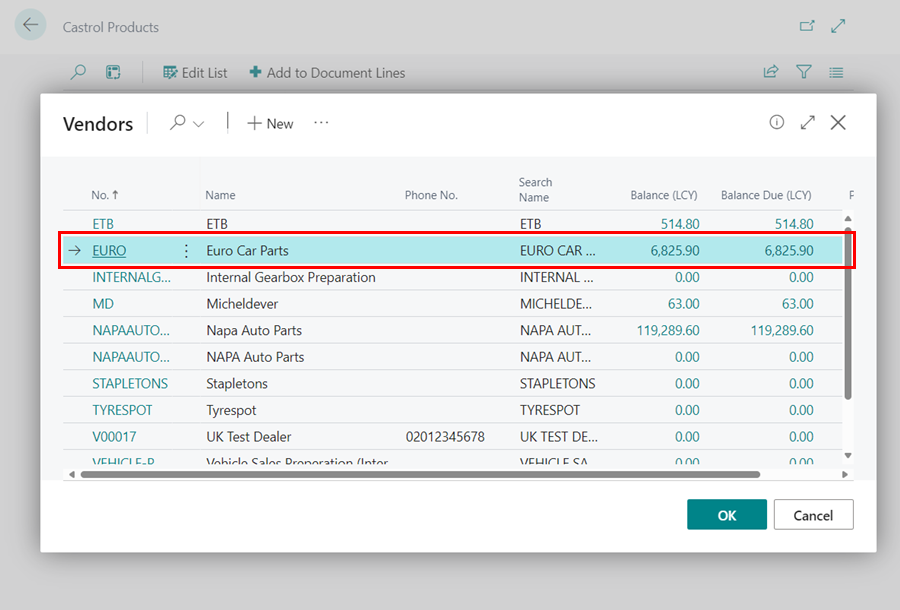
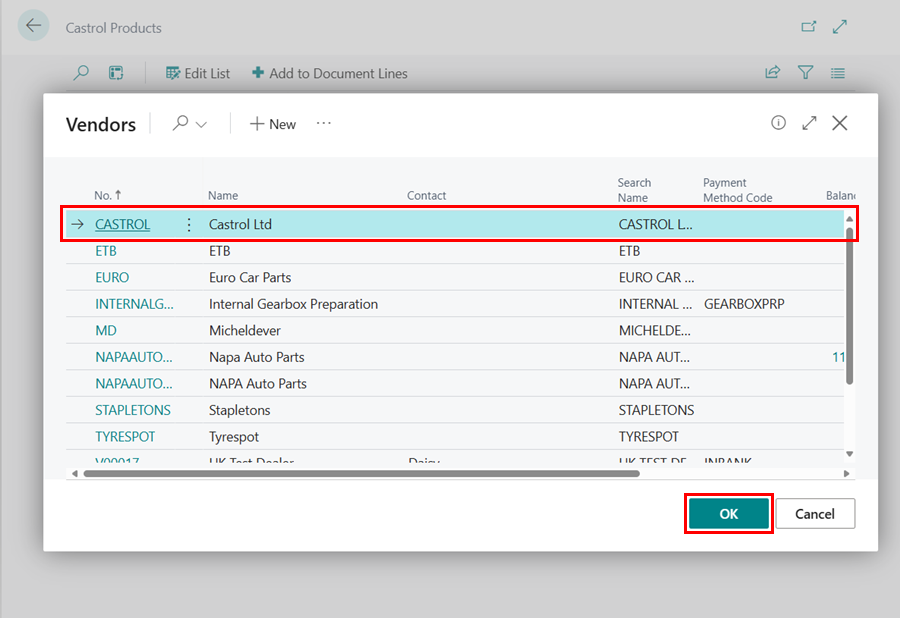
castrol lookup

diff --git a/docs/garagehive-castrol-lookup.md b/docs/garagehive-castrol-lookup.md
@@ -6,49 +6,57 @@ title: How to Use Castrol Lookup in Garage Hive
 <a name="top"></a>
 
 # How to Use Castrol Lookup in Garage Hive
-Garage Hive users can now use Castrol Lookup to easily search for appropriate oil types and their capacities for various vehicles and select the oil from Castrol database to add to the document. The lookup function can be done either by using the vehicle registration number or by specifying the make and model of the vehicle.
+Garage Hive users can use Castrol Lookup to easily search for appropriate oil types and their capacities for various vehicles and select the oil from Castrol database to add to the document. The lookup function can be done either by using the vehicle registration number or by specifying the make and model of the vehicle.
 
-1. Castrol Lookup is available for use in the Jobsheet, Estimate, VI Estimate, and the Technician Jobsheet.
-1. To use Castrol Lookup, open the relevant document and select **Lookup** from the menu, followed by **Castrol Lookup**. The system will automatically pull the vehicle registration number to start the lookup.
+1. To use Castrol Lookup, choose the ![](media/search_icon.png) icon in the top-right corner, enter **Castrol Lookup Setup** and choose the related link.
+
+   ![](media/garagehive-castrol-lookup-setup1.png)
+
+2. Specify the supplier to purchase the oil from by entering their number in the **Vendor No.** field.
+
+   ![](media/garagehive-castrol-lookup-setup2.png)
+
+3. Castrol Lookup is available for use in the Jobsheet, Estimate, VI Estimate, and the Technician Jobsheet.
+4. Open the relevant document and select **Lookup** from the menu, followed by **Castrol Lookup**. The system will automatically pull the vehicle registration number to start the lookup.
 
    ![](media/garagehive-castrol-lookup-use1.png)
 
-1. If the system can’t find the vehicle registration, you’ll receive an error message with an option to manually input the vehicle’s **Make** and **Model**. Select **Yes** to proceed.
+5. If the system can’t find the vehicle registration, you’ll receive an error message with an option to manually input the vehicle’s **Make** and **Model**. Select **Yes** to proceed.
 
    ![](media/garagehive-castrol-lookup-use3.png)
 
-1. Follow the prompts to choose the correct **Make** and **Model** and click **OK**.
+6. Follow the prompts to choose the correct **Make** and **Model** and click **OK**.
 
    ![](media/garagehive-castrol-lookup-use4.png)
 
-1. The **Castrol Lookup** page will appear, showing the different components that may require oil. Select the specific component you need oil for to view the available **Castrol Products**.
+7. The **Castrol Lookup** page will appear, showing the different components that may require oil. Select the specific component you need oil for to view the available **Castrol Products**.
 
    ![](media/garagehive-castrol-lookup-use2.png)
 
-1. Choose the product you need and click **Add to Document Lines** from the menu. You can scroll left to view additional product details.
+8. Choose the product you need and click **Add to Document Lines** from the menu. You can scroll left to view additional product details.
 
    ![](media/garagehive-castrol-lookup-use10.png)
 
-1. If the selected Castrol product isn’t linked to an item, you’ll be prompted to link it now. Select **Yes**.
+9.  If the selected Castrol product isn’t linked to an item, you’ll be prompted to link it now. Select **Yes**.
 
    ![](media/garagehive-castrol-lookup-use5.png)
 
-1. In the **Items** page, search for the item you want to link to the Castrol product and click **OK**.
+10. In the **Items** page, search for the item you want to link to the Castrol product and click **OK**.
 
    ![](media/garagehive-castrol-lookup-use6.png)
 
-1. If there is no vendor associated with the item, you’ll get a prompt asking to add one. Choose **Yes** to link the item with a vendor.
+11. If there is no vendor setup up in the system, you’ll get a prompt asking to add one. Choose **Yes** to link the item with a vendor.
 
    ![](media/garagehive-castrol-lookup-use7.png)
 
-1. In the **Vendors** page, search for the appropriate vendor and click **OK**.
+12. In the **Vendors** page, search for the appropriate vendor and click **OK**.
 
    ![](media/garagehive-castrol-lookup-use8.png)
 
-1. In the **Line Group Update** page, select the item you want to update with the Castrol product in the document or choose **'< NEW LINE >'** to create a new line. Click **OK**.
+13. In the **Line Group Update** page, select the item you want to update with the Castrol product in the document or choose **'< NEW LINE >'** to create a new line. Click **OK**.
 
    ![](media/garagehive-castrol-lookup-use9.png)
 
-1. The document will now reflect the selected Castrol product, ready for ordering from the linked vendor.
+14. The document will now reflect the selected Castrol product, ready for ordering from the linked vendor.
 
 [Go back to top](#top)
